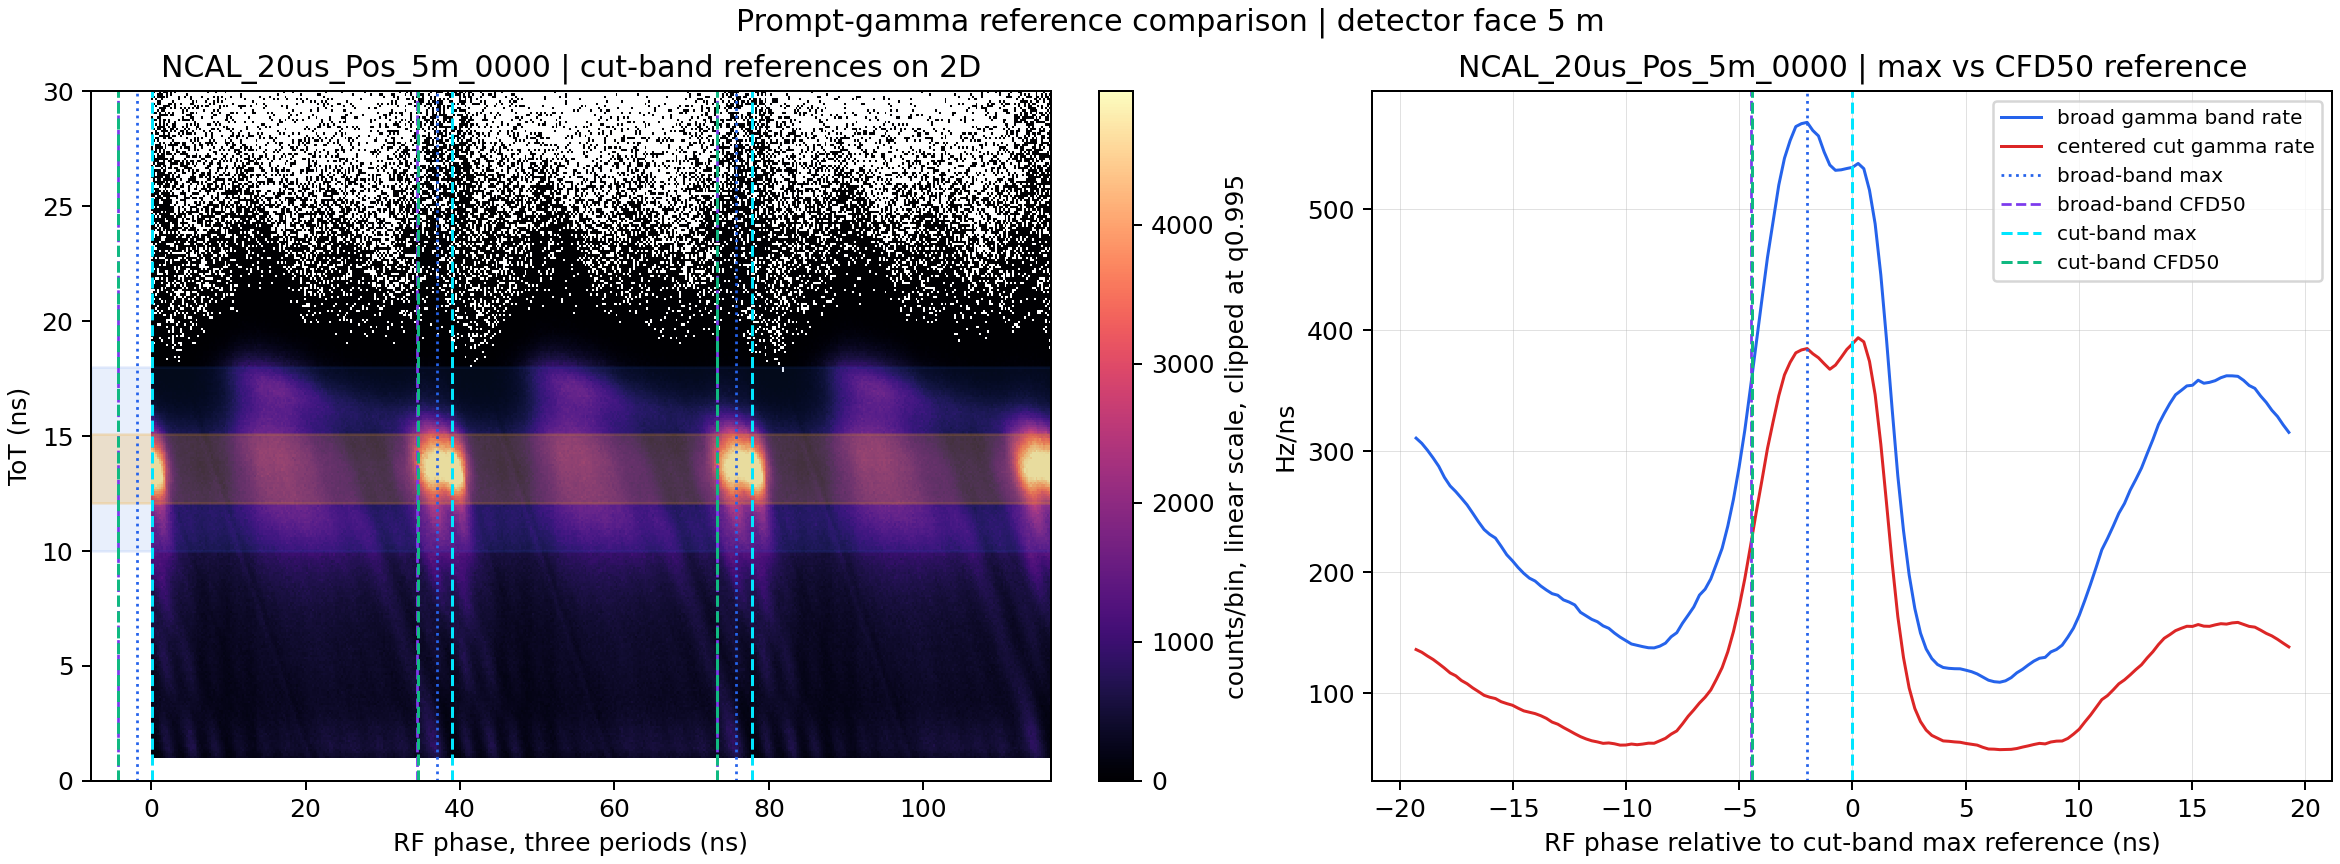
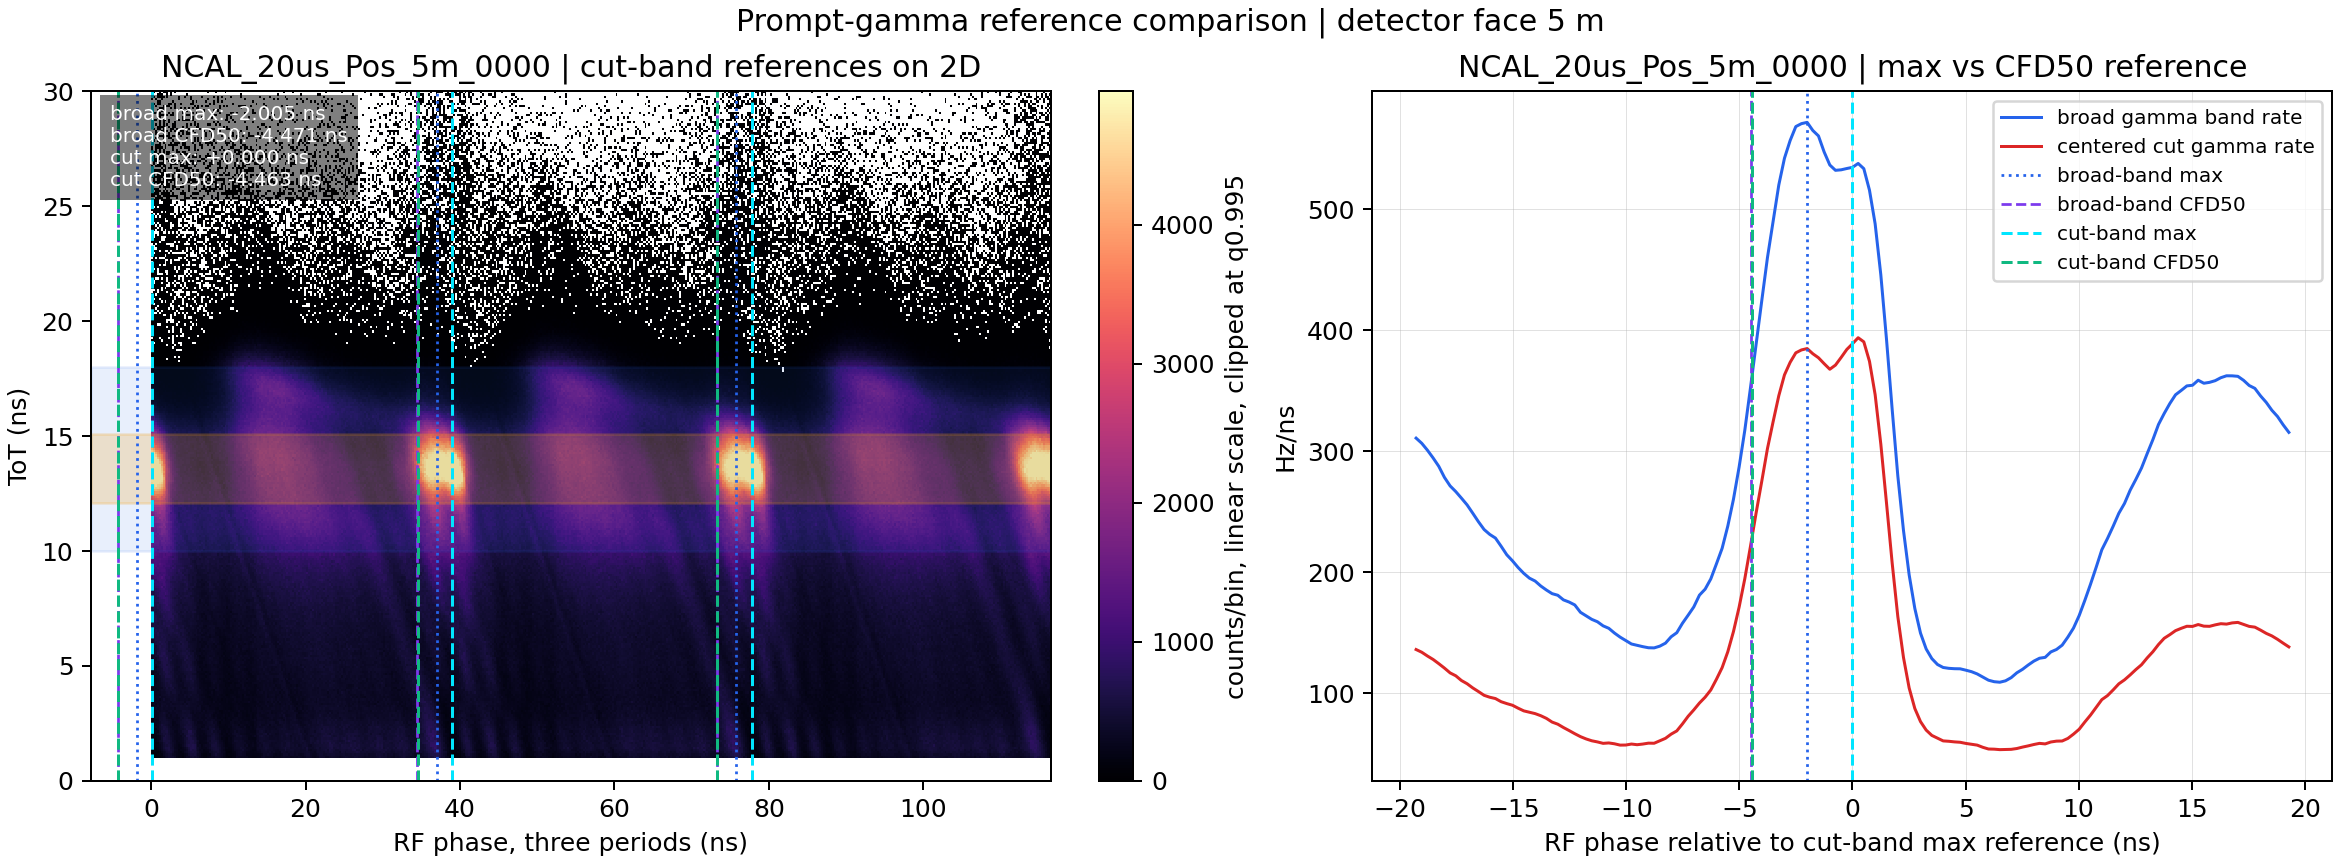
Annotate CFD reference plots

Changed region(s): [[0.0312, 0.0938, 0.156, 0.25]]

diff --git a/Dogma_Analysis/Analysis/step10_gamma_reference_cfd.py b/Dogma_Analysis/Analysis/step10_gamma_reference_cfd.py
@@ -148,6 +148,23 @@ def draw_comparison(
     axes[1].set_title(f"{run_key} | max vs CFD50 reference")
     axes[1].grid(True, linewidth=0.3, alpha=0.5)
     axes[1].legend(fontsize=8)
+    annotation = (
+        f"broad max: {broad_max_ref_relative:+.3f} ns\n"
+        f"broad CFD50: {broad_cfd50_ref_relative:+.3f} ns\n"
+        f"cut max: {0.0:+.3f} ns\n"
+        f"cut CFD50: {cut_cfd50_ref_relative:+.3f} ns"
+    )
+    axes[0].text(
+        0.02,
+        0.98,
+        annotation,
+        transform=axes[0].transAxes,
+        ha="left",
+        va="top",
+        fontsize=8,
+        color="white",
+        bbox={"facecolor": "black", "alpha": 0.50, "edgecolor": "none", "pad": 4},
+    )
 
     figure.suptitle(f"Prompt-gamma reference comparison | detector face {position_m:g} m")
     figure.savefig(output_path, dpi=180)
